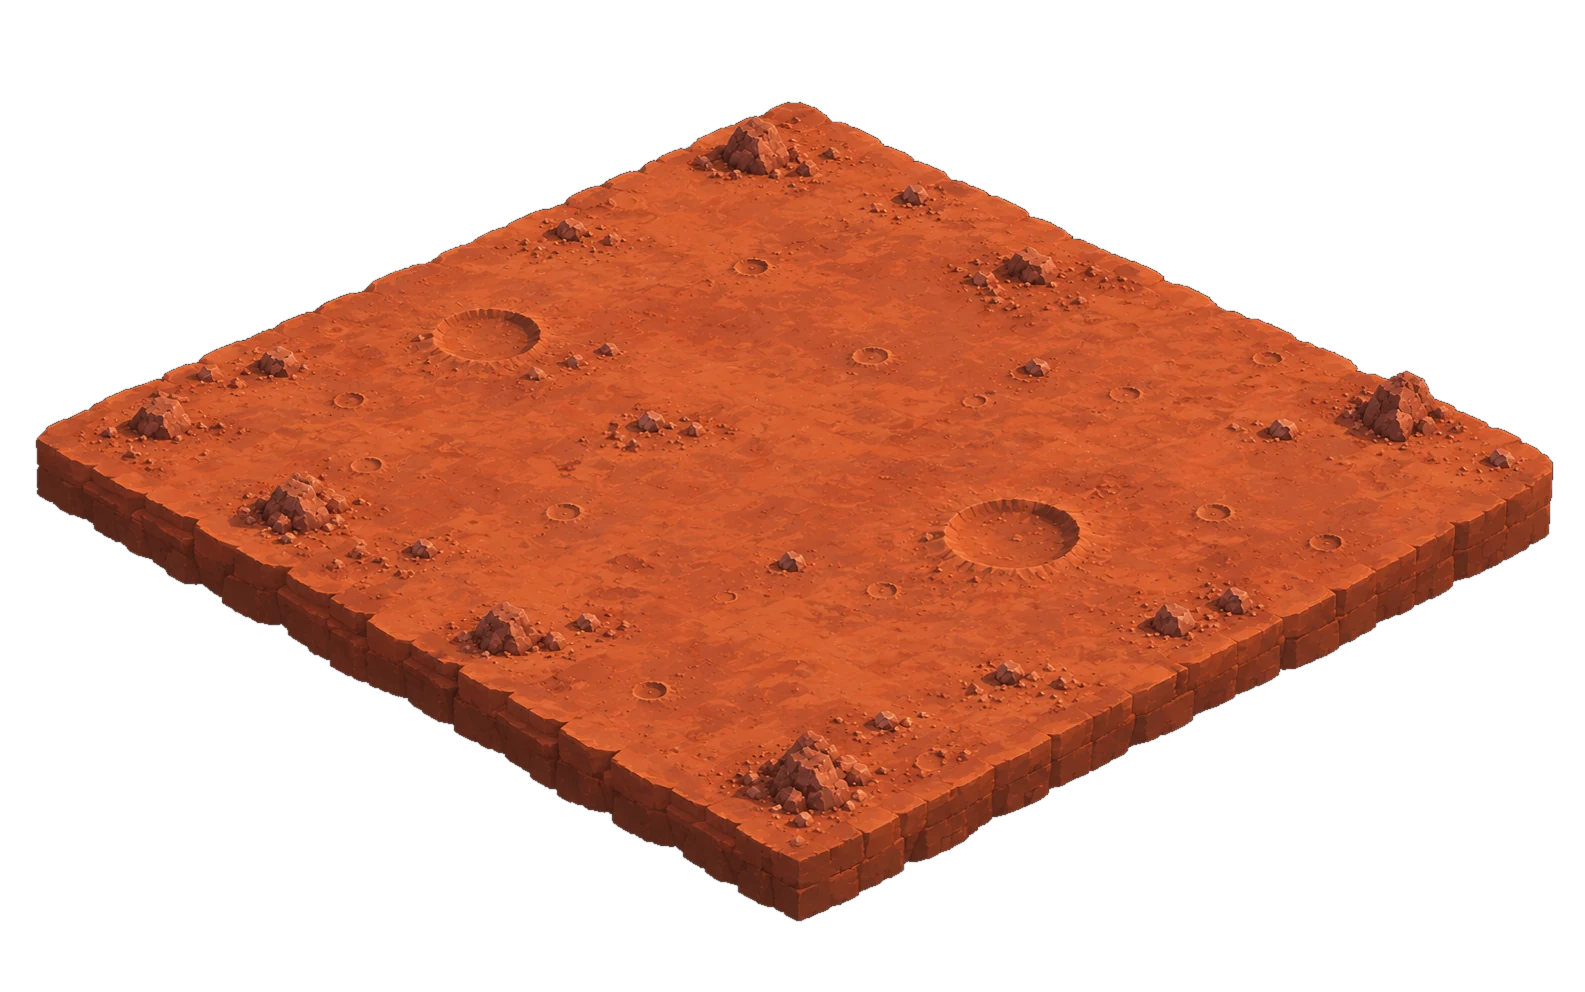
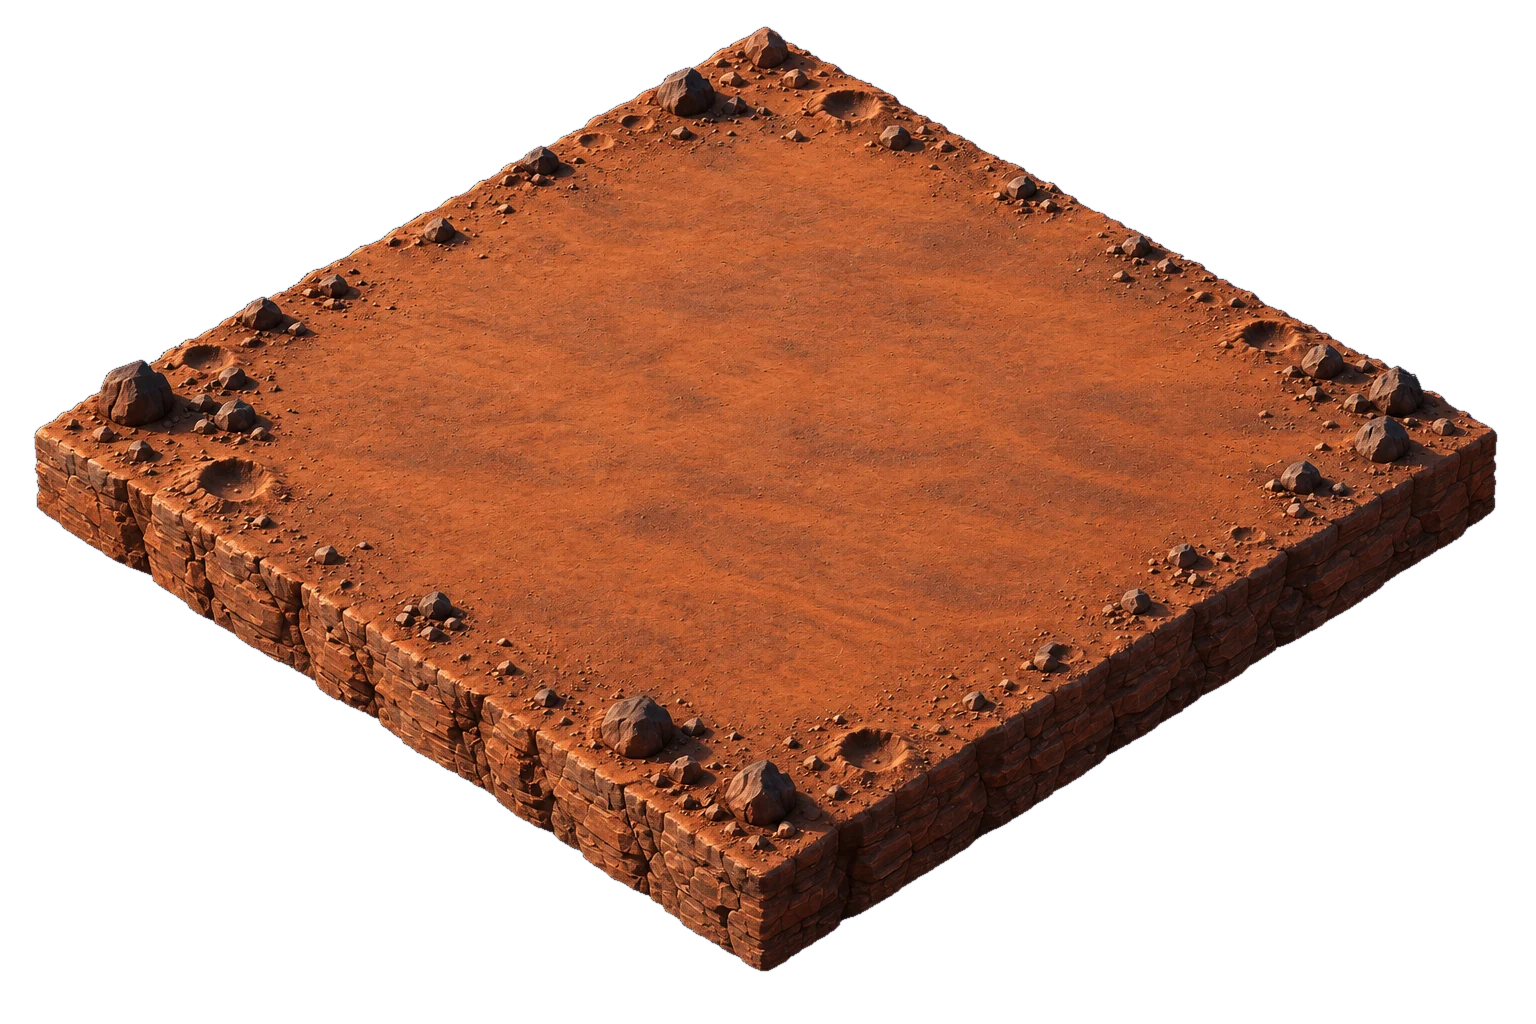
New Moon and Mars maps: one shape, clear middle
Second-generation terrain, Mars made from the Moon as a reference, so
the two slabs now match to within a few pixels, with both edges at
28.5 degrees (the old maps were 23.5-26 degrees and differed from each
other). Rocks and craters stay on the rim; the middle is open ground
for the buildings.

- BaseView: new 1536x1024 size, measured corners per world, the crop
  moved onto the new slab (same shape, so the layout is unchanged),
  buildings scaled 0.62 -> 0.60 for the narrower slab, and the star
  field placed from the crop rather than fixed numbers.
- The lab pad moves to (0.72, 0.77).
- ART-GUIDE: the measured angles, and these maps as the reference for
  new art.

diff --git a/src/ui/BaseView.tsx b/src/ui/BaseView.tsx
@@ -2,7 +2,7 @@
 // presentational: which art is shown, and how it is tinted, is read from
 // game state; nothing here changes the game.
 //
-// Coordinates are pixels of the terrain image (1585 x 992). Each building
+// Coordinates are pixels of the terrain image (1536 x 1024). Each building
 // sits on one of the five pads marked on the terrain.
 
 import { FlaskConical, Home, Pickaxe, Shield, Sprout, Sun, TriangleAlert, Wind, Zap, type LucideIcon } from 'lucide-react'
@@ -14,12 +14,12 @@ import type { CrewMember, CrewTask, Decisions, GameState, PowerLoad, ScenarioId 
 import { portraitFor } from './labels.ts'
 import type { SolEffects } from './useSolEffects.ts'
 
-const W = 1585
-const H = 992
+const W = 1536
+const H = 1024
 const ART = '/art'
 // The slab fills the frame: its left and right corners run off the sides,
 // with just enough sky above the back corner for the stars.
-const VIEW = { x: 130, y: 60, w: 1330, h: 760 }
+const VIEW = { x: 103, y: 12, w: 1330, h: 760 }
 
 // Each world's terrain art, and the three corners of its painted diamond
 // (the front corner follows from the other three). A spot on the ground is
@@ -29,10 +29,12 @@ const VIEW = { x: 130, y: 60, w: 1330, h: 760 }
 // terrain is drawn in, which is what makes them look planted rather than
 // pasted on.
 //
-// The two slabs are not the same shape -- Mars sits lower and is a little
-// smaller -- so the corners are measured per world rather than shared. The
-// (u, v) positions below are the same for both, which is what lets one
-// layout serve both worlds.
+// The two slabs were generated from one another, so they are all but the
+// same shape (see art/ART-GUIDE.md), but the corners are still measured per
+// world, so a slab regenerated on its own can be dropped in. The (u, v)
+// positions below are the same for both, which is what lets one layout
+// serve both worlds. Measured by fitting lines to each slab's back edges,
+// ignoring the rocks along them: both edges slope at 28.5 degrees.
 interface Terrain {
   art: string
   north: readonly [number, number]
@@ -41,8 +43,8 @@ interface Terrain {
 }
 
 const TERRAIN: Record<ScenarioId, Terrain> = {
-  moon: { art: 'moon-terrain.webp', north: [781, 51], west: [11, 420], east: [1576, 476] },
-  mars: { art: 'mars-terrain.webp', north: [788, 102], west: [37, 438], east: [1552, 463] },
+  moon: { art: 'moon-terrain.webp', north: [764, 31], west: [37, 426], east: [1495, 429] },
+  mars: { art: 'mars-terrain.webp', north: [761, 29], west: [34, 425], east: [1496, 427] },
 }
 
 function groundAt(t: Terrain, u: number, v: number) {
@@ -62,13 +64,13 @@ const PADS = {
   habitat: { u: 0.45, v: 0.5 },
   reactor: { u: 0.22, v: 0.78 },
   greenhouse: { u: 0.74, v: 0.26 },
-  lab: { u: 0.64, v: 0.79 },
+  lab: { u: 0.72, v: 0.77 },
 } as const
 type PadId = keyof typeof PADS
 
 // One world scale for every building, so their painted sizes stay in
 // proportion to each other and to the ground.
-const BUILDING_SCALE = 0.62
+const BUILDING_SCALE = 0.6
 
 // Mars daylight. The building art was painted in the Moon's cool greys, and
 // on Mars's orange ground it looked pasted on. Dust in the Martian air gives
@@ -189,8 +191,8 @@ function starsFor(t: Terrain): Star[] {
   const above = (x: number, y: number) => y < ny + (x < nx ? leftSlope * (x - nx) : rightSlope * (x - nx)) - 14
   const out: Star[] = []
   for (let i = 0; i < 90 && out.length < 34; i++) {
-    const x = 130 + ((i * 271) % 1330)
-    const y = 145 + ((i * 137) % 300)
+    const x = VIEW.x + ((i * 271) % VIEW.w)
+    const y = VIEW.y + 85 + ((i * 137) % 300)
     if (above(x, y)) out.push({ x, y, r: i % 4 === 0 ? 3 : 2, delay: (i % 7) * 0.45 })
   }
   starFields.set(t.art, out)

diff --git a/art/ART-GUIDE.md b/art/ART-GUIDE.md
@@ -17,14 +17,23 @@ generated months later sit on a map made today.
   the **front corner** at the bottom, the left and right corners at the
   sides.
 
-The current art is close to this but not exact, and not the same on both
-maps, which is part of why they look inconsistent:
+**What the maps actually came out at, and what new art should match.**
+Image tools rarely hit an exact angle. The second-generation maps (Sep
+2026) came out symmetric and identical to each other, but about 2°
+steeper than true 2:1, and they are now the reference: new art should
+match them, not the textbook figure.
 
-| Art | Left edge | Right edge |
-|---|---|---|
-| Moon slab (current) | 25.6° | 28.1° |
-| Mars slab (current) | 24.1° | 25.3° |
-| Target | 26.57° | 26.57° |
+| Art | Left edge | Right edge | Top-face diamond, height ÷ width |
+|---|---|---|---|
+| Moon map v1 | 26.0° | 24.1° | 0.47 |
+| Mars map v1 | 23.5° | 25.1° | 0.45 |
+| Moon and Mars maps v2 (current) | 28.5° | 28.5° | 0.54 |
+| Buildings (current) | about 25–28°, one-offs 21–33° | | |
+| True 2:1 | 26.57° | 26.57° | 0.50 |
+
+So for anything new, ask for **2:1 isometric** and check the result
+against the maps: edges between about 26° and 29° sit well on them.
+Measured by fitting lines to the silhouette edges, ignoring the rocks.
 
 ## Lighting (every image)
 
@@ -54,9 +63,9 @@ occlusion, gentle bevels, no outlines. The existing building sheet
 
 ## The maps
 
-- **Landscape 3:2**, e.g. 1536 × 1024. (The current maps are 1585 × 992;
-  the code is re-measured for new art, so the exact size can change, but
-  **both maps must be the same size, with the slab in the same place**.)
+- **Landscape 3:2**, e.g. 1536 × 1024 (the current maps' size). The code
+  is re-measured for new art, so the exact size can change, but **both
+  maps must be the same size, with the slab in the same place**.
 - One square slab of ground, seen as a diamond:
   - it fills the width of the frame, with a small margin on each side;
   - its back corner is near the top; its front corner, plus the cliff
@@ -95,6 +104,14 @@ occlusion, gentle bevels, no outlines. The existing building sheet
 
 Follows the camera, lighting, style and background rules above, on a
 platform the size of one building pad. Prompt still to write.
+
+## Current maps (v2)
+
+- 1536 × 1024. Top-face corners, in image pixels: Moon back (764, 31),
+  left (37, 426), right (1495, 429); Mars back (761, 29), left (34, 425),
+  right (1496, 427). Front corner about (768, 824); cliff bottom about
+  y 970, so the cliff is about 146 px, a tenth of the slab's width.
+- Background #0B1534-ish navy, cut out by `art/process.py`.
 
 ## After new art arrives
 
